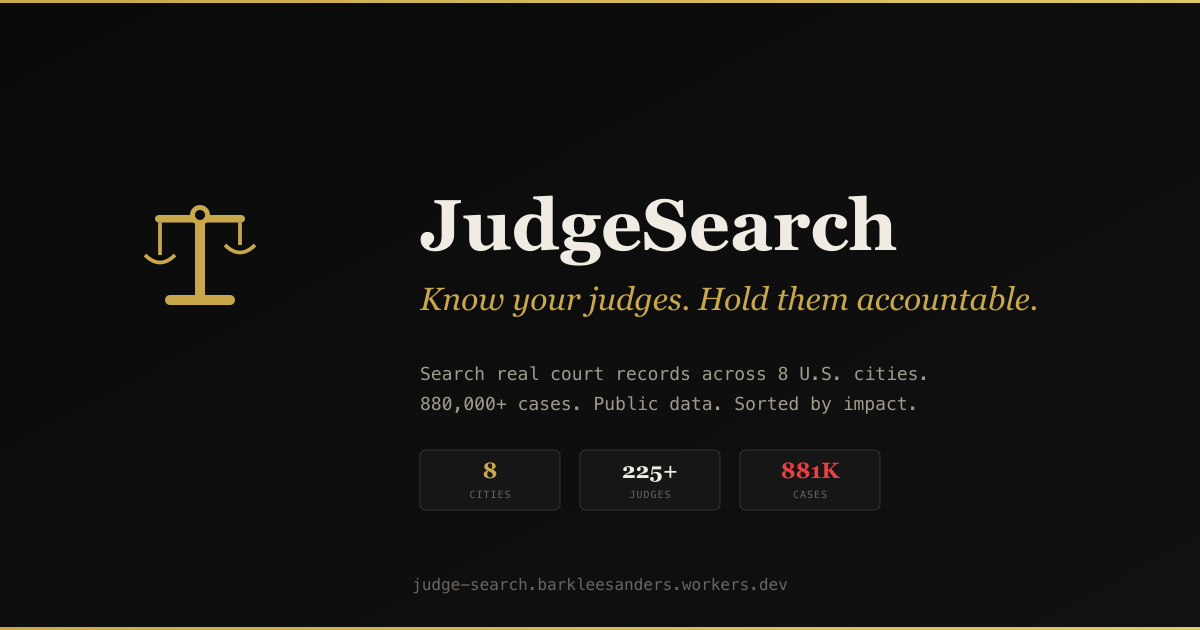
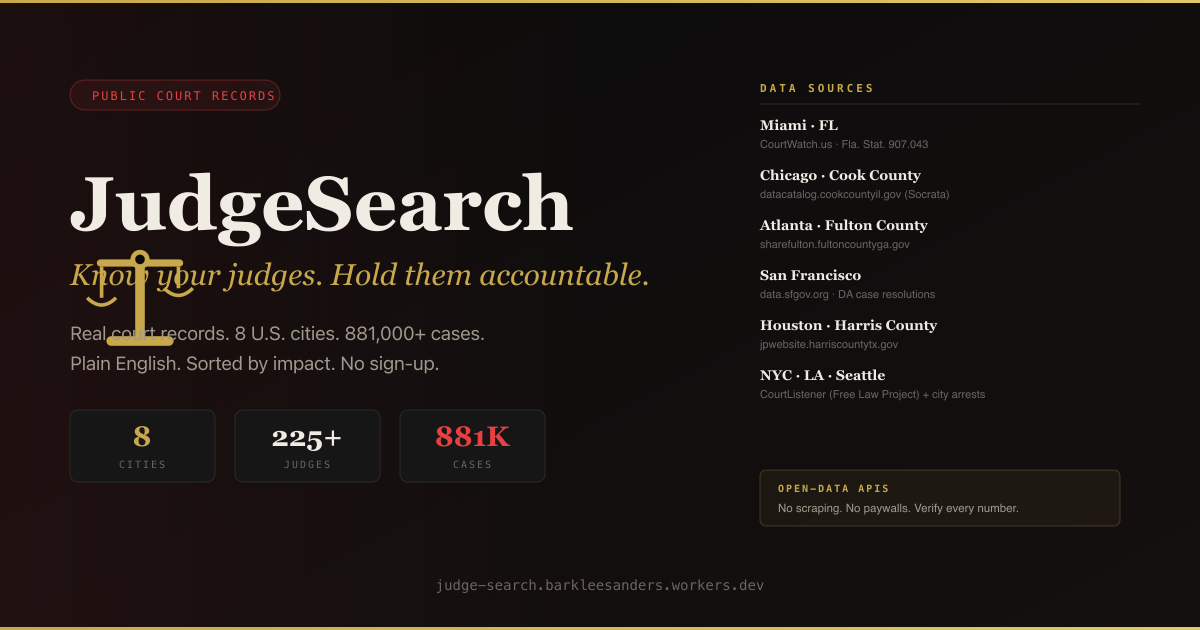
New OG image showcasing the 8 data sources
Replaces the old minimal OG card with a two-column design:
- Left: logo, title, tagline, 8 cities/225+ judges/881K cases stat boxes
- Right: scrollable list of all 8 data sources (Miami→CourtWatch,
  Chicago→Cook County, Atlanta→Fulton County, SF→DataSF, Houston→
  Harris County JP, NYC/LA/Seattle→CourtListener + city arrests)
- Footer: "OPEN-DATA APIS — No scraping. No paywalls. Verify every
  number." — anticipates the "what about sources?" question for
  social previews

Cache-busted image URL (?v=20260412) forces social platforms to
re-scrape. Alt text updated with full source list for accessibility
and better SEO.

diff --git a/src/index.ts b/src/index.ts
@@ -1401,19 +1401,19 @@ const HTML = `<!DOCTYPE html>
 <meta property="og:site_name" content="JudgeSearch">
 <meta property="og:title" content="JudgeSearch — Know Your Judges. Hold Them Accountable.">
 <meta property="og:description" content="Search real court records across 8 U.S. cities. 880,000+ cases. See how often defendants released by each judge missed court, got rearrested, or had their release revoked. All public data, explained in plain English.">
-<meta property="og:image" content="https://judge-search.barkleesanders.workers.dev/og-image.png">
+<meta property="og:image" content="https://judge-search.barkleesanders.workers.dev/og-image.png?v=20260412">
 <meta property="og:image:type" content="image/png">
 <meta property="og:image:width" content="1200">
 <meta property="og:image:height" content="630">
-<meta property="og:image:alt" content="JudgeSearch — scales of justice on a dark background. Search real court records across 8 U.S. cities, 225+ judges, 881K cases. Sorted by impact.">
+<meta property="og:image:alt" content="JudgeSearch — scales of justice, 8 cities, 225+ judges, 881K cases. Data sources: CourtWatch, Cook County Open Data, Fulton County ShareFulton, DataSF, Harris County, CourtListener.">
 <meta property="og:type" content="website">
 <meta property="og:url" content="https://judge-search.barkleesanders.workers.dev">
 <!-- Twitter Card -->
 <meta name="twitter:card" content="summary_large_image">
 <meta name="twitter:title" content="JudgeSearch — Judicial Accountability">
 <meta name="twitter:description" content="Search 880,000+ court records across 8 U.S. cities. See which judges had the most missed court dates, rearrests, and release revocations. Public data, plain English.">
-<meta name="twitter:image" content="https://judge-search.barkleesanders.workers.dev/og-image.png">
-<meta name="twitter:image:alt" content="JudgeSearch — scales of justice on dark background, showing 8 cities, 225+ judges, 881K cases covered.">
+<meta name="twitter:image" content="https://judge-search.barkleesanders.workers.dev/og-image.png?v=20260412">
+<meta name="twitter:image:alt" content="JudgeSearch — scales of justice, 8 cities, 225+ judges, 881K cases. Real open-data sources from CourtWatch, Cook County, Fulton County, DataSF, Harris County, and CourtListener.">
 <link rel="preconnect" href="https://fonts.googleapis.com">
 <link href="https://fonts.googleapis.com/css2?family=Playfair+Display:ital,wght@0,700;0,800;1,700&family=IBM+Plex+Sans:wght@400;500;600;700&family=IBM+Plex+Mono:wght@400;500&display=swap" rel="stylesheet">
 <link rel="stylesheet" href="https://unpkg.com/leaflet@1.9.4/dist/leaflet.css"/>
